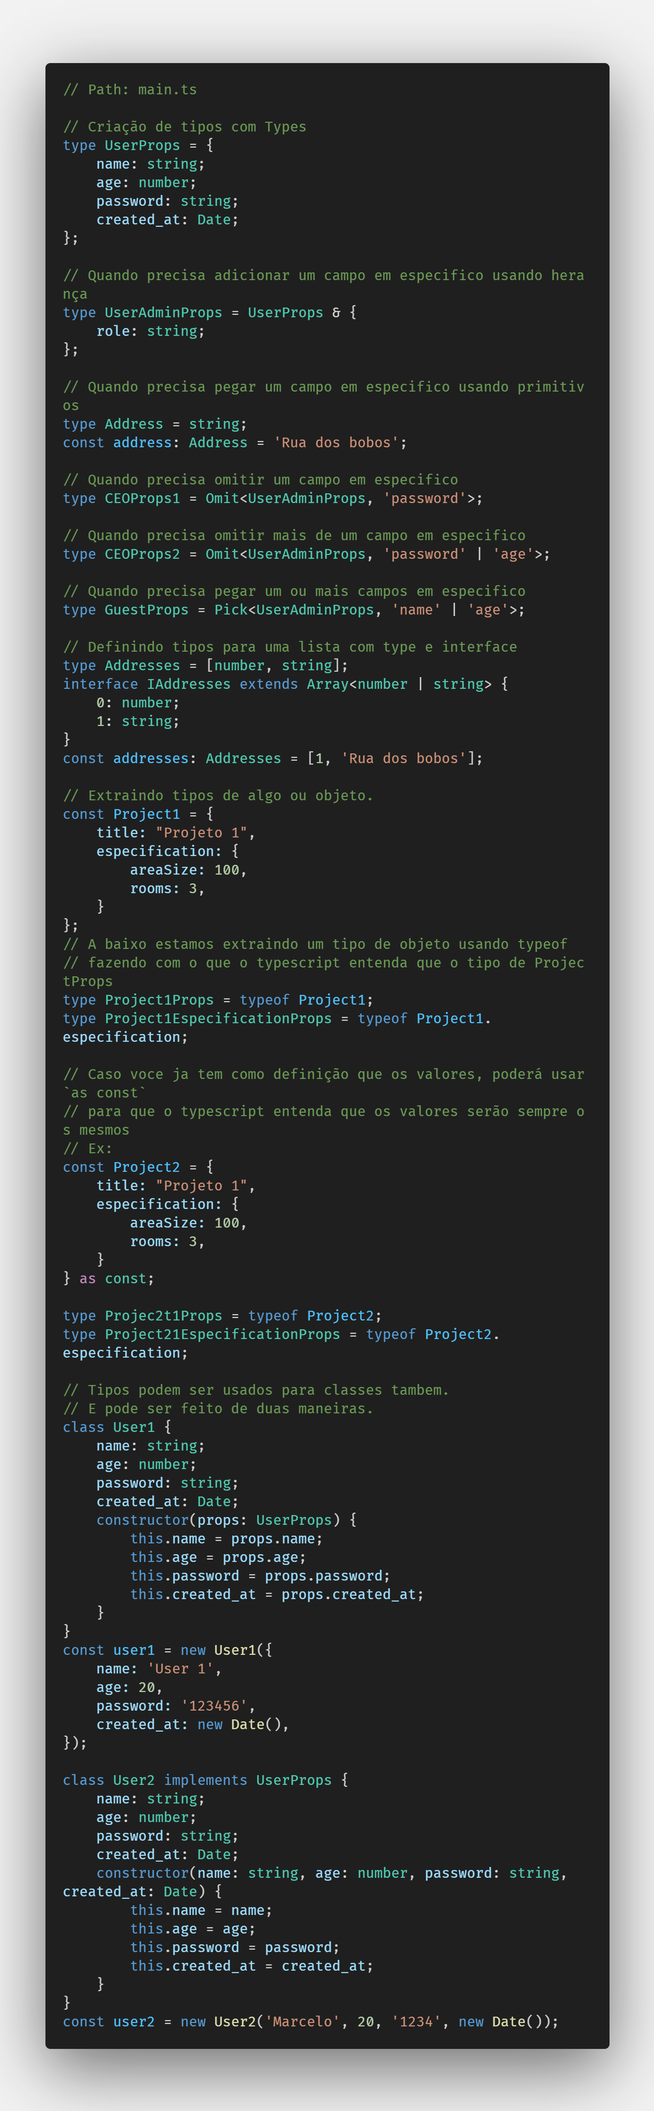
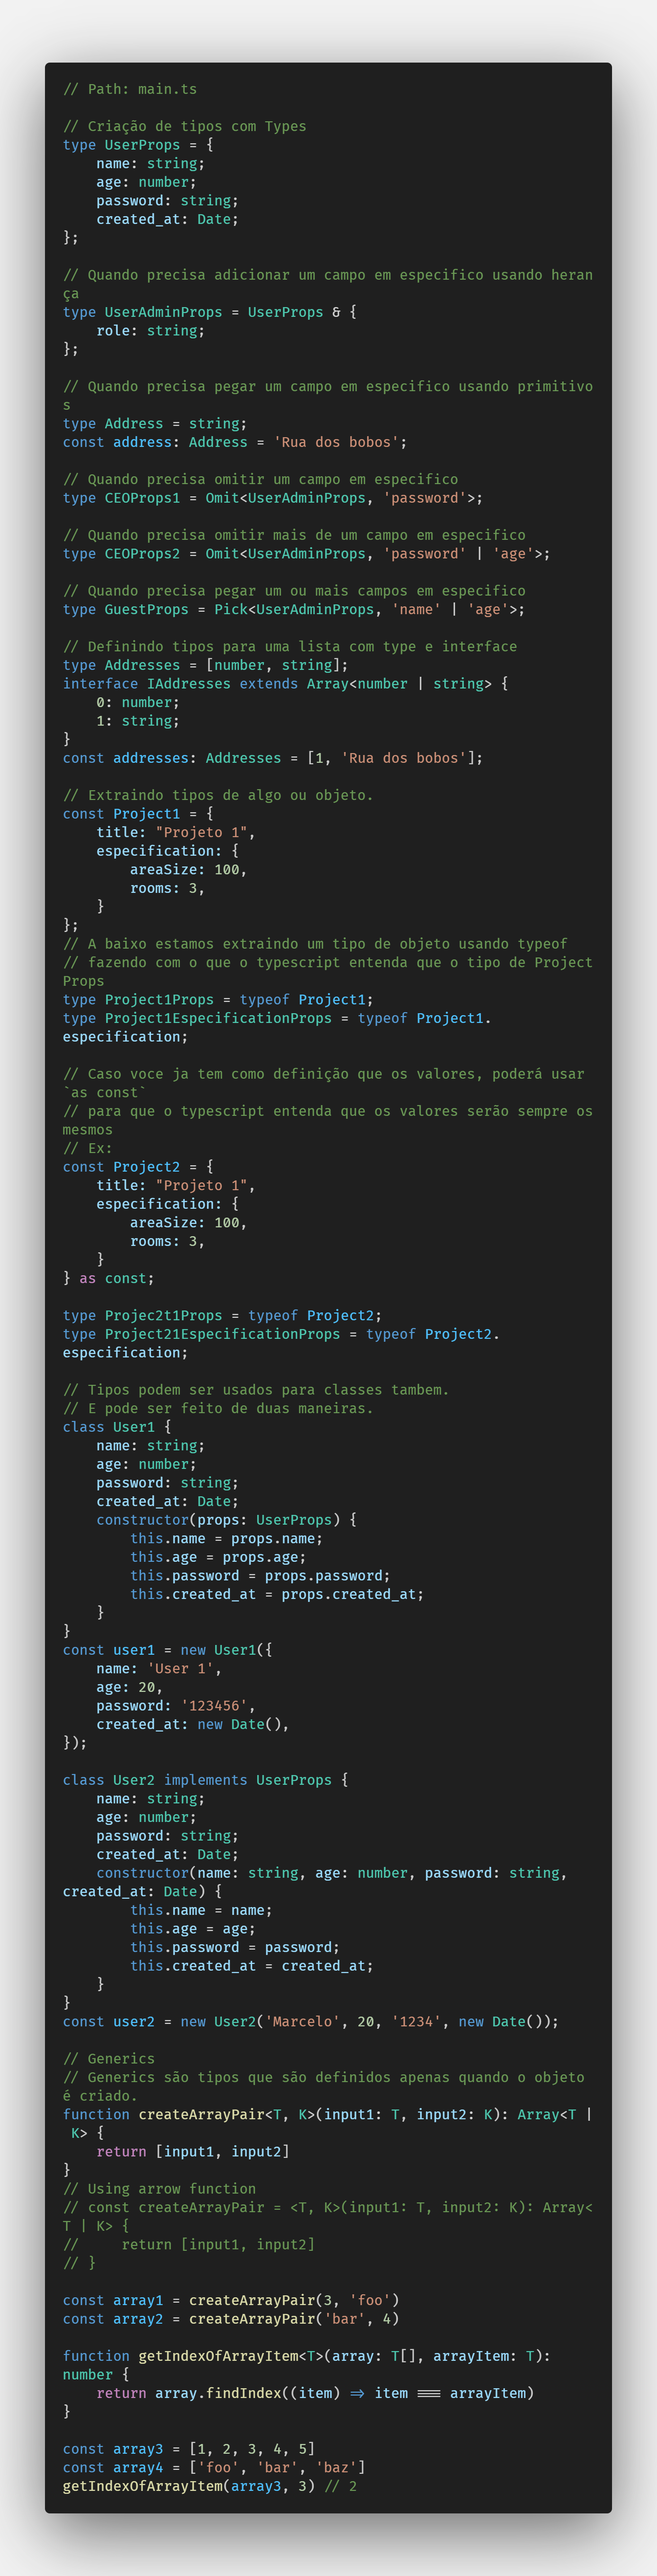
typescript

diff --git a/main.ts b/main.ts
@@ -95,3 +95,24 @@ class User2 implements UserProps {
     }
 }
 const user2 = new User2('Marcelo', 20, '1234', new Date());
+
+// Generics
+// Generics são tipos que são definidos apenas quando o objeto é criado.
+function createArrayPair<T, K>(input1: T, input2: K): Array<T | K> {
+    return [input1, input2]
+}
+// Using arrow function
+// const createArrayPair = <T, K>(input1: T, input2: K): Array<T | K> {
+//     return [input1, input2]
+// }
+
+const array1 = createArrayPair(3, 'foo')
+const array2 = createArrayPair('bar', 4)
+
+function getIndexOfArrayItem<T>(array: T[], arrayItem: T): number {
+    return array.findIndex((item) => item === arrayItem)
+}
+
+const array3 = [1, 2, 3, 4, 5]
+const array4 = ['foo', 'bar', 'baz']
+getIndexOfArrayItem(array3, 3) // 2
